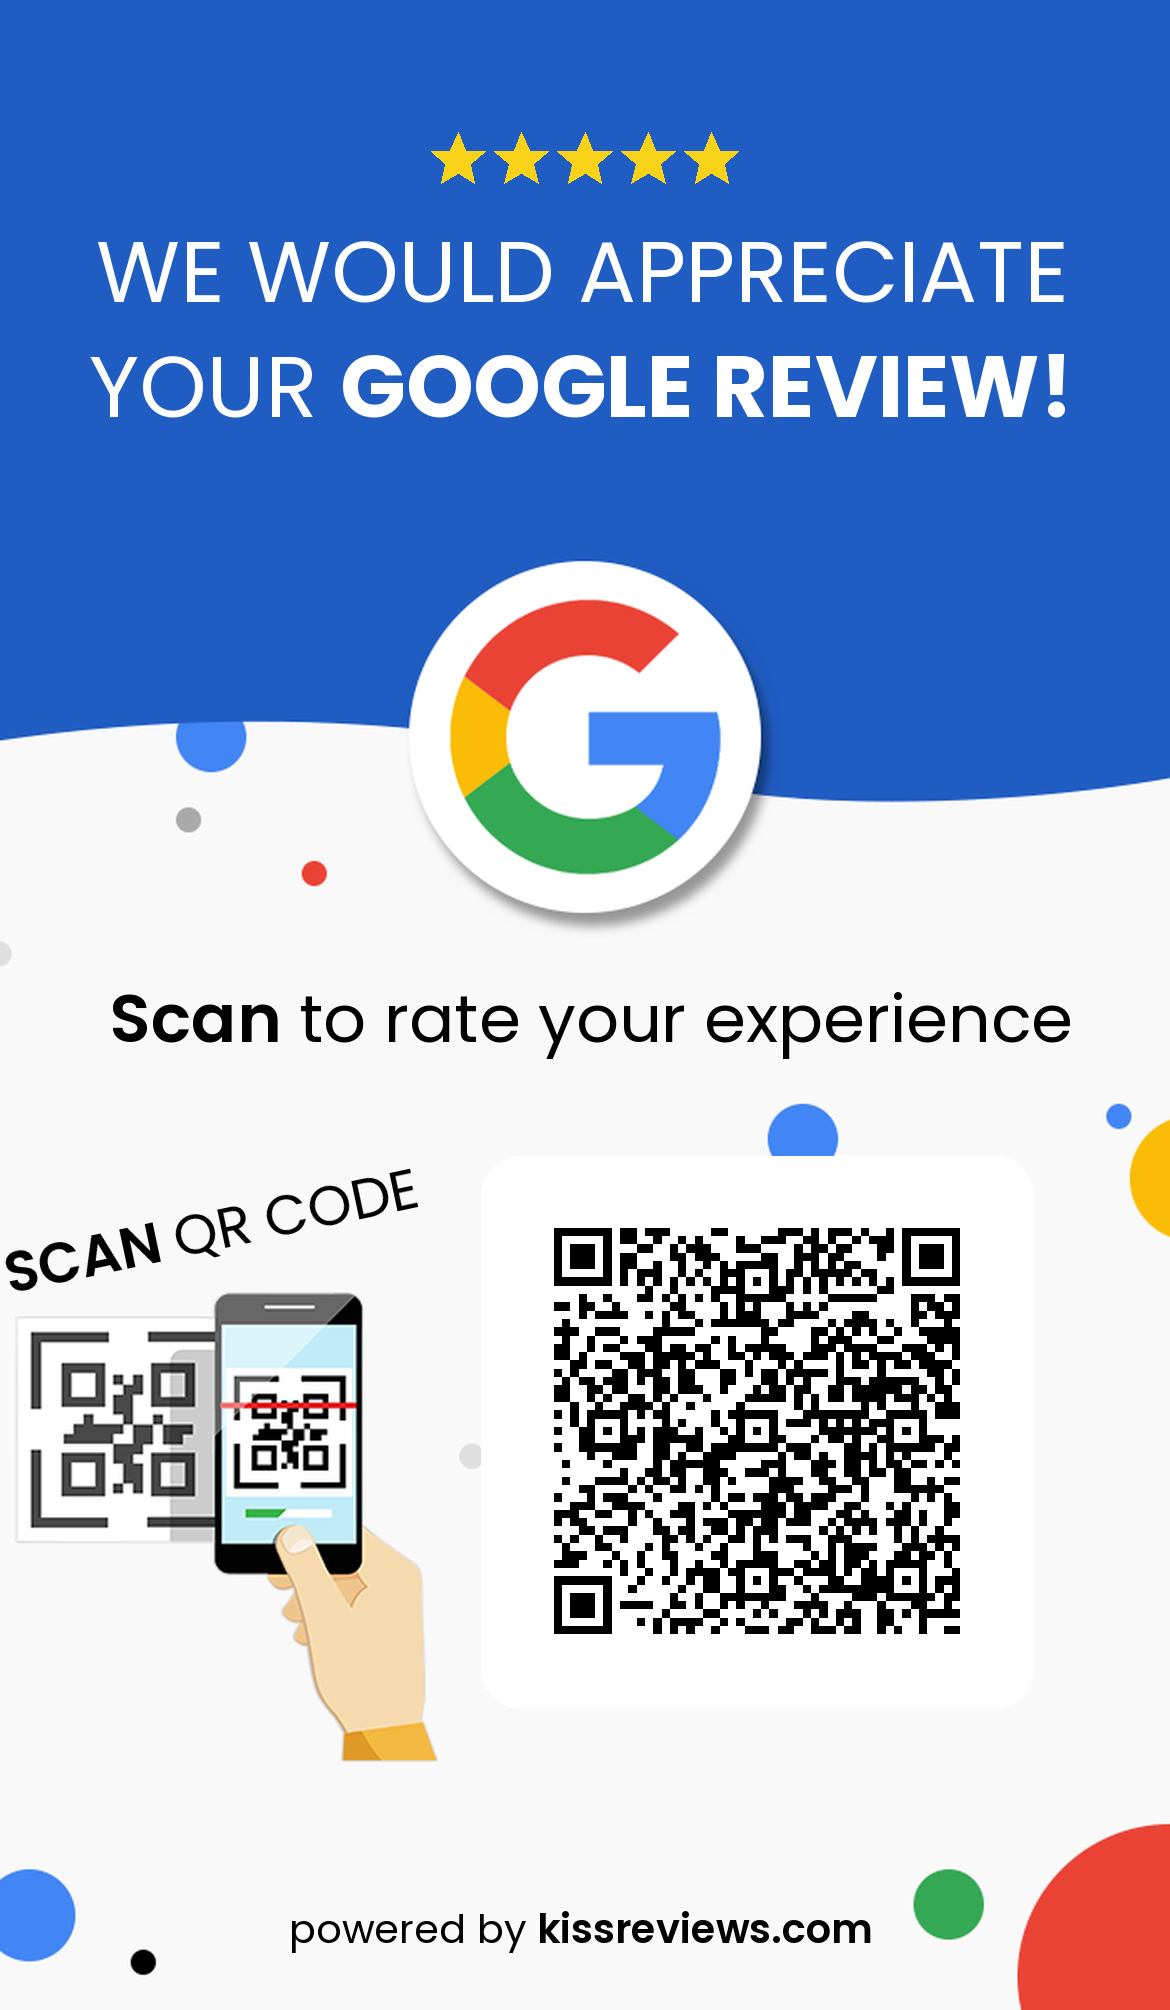
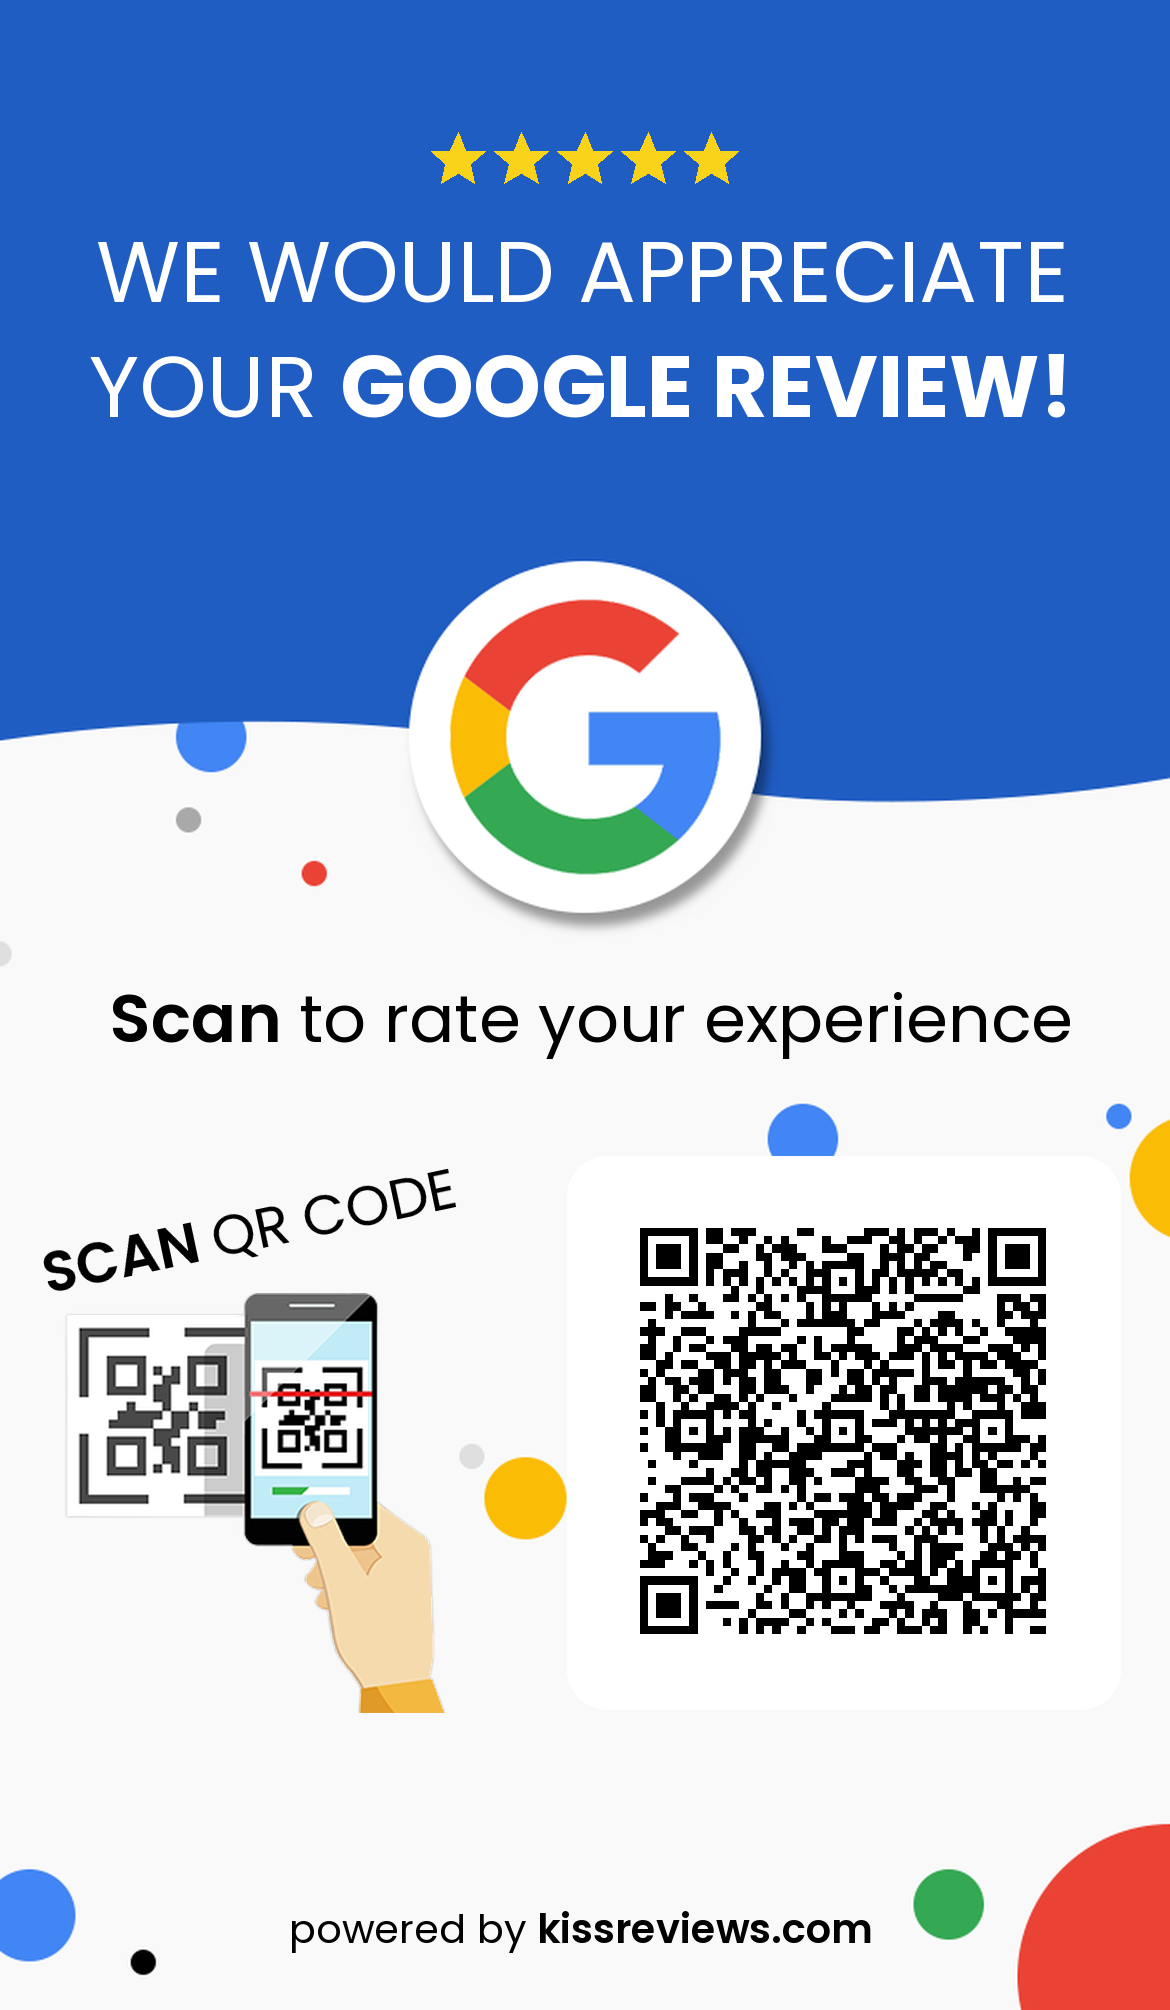
Decal: move phone illustration and QR card off the sticker edges
Claude-Session: https://claude.ai/code/session_01HuSLgrkbYU9ZpgEq226m8J

Changed region(s): [[0.4, 0.5861, 0.8923, 0.8328], [0.0, 0.5861, 0.4, 0.8945]]

diff --git a/tools/decal/build_decal.py b/tools/decal/build_decal.py
@@ -13,13 +13,28 @@ CROP_X0, CROP_X1 = 51, 749          # source px (800 wide) kept -> 698 px, stick
 SRC_H = 1200
 SX = W / (CROP_X1 - CROP_X0)        # 1.676
 SY = H / SRC_H                      # 1.675
-TEXT_LAYERS_HIDE = {'Group 1', 'Layer 3', 'Rounded Rectangle 2', 'capture-qr-code-mobile-phone'}
+TEXT_LAYERS_HIDE = {'Group 1', 'Layer 3', 'Rounded Rectangle 2', 'capture-qr-code-mobile-phone', 'capture-qr-code-mobile-phone copy'}
+ILLUSTRATION = 'capture-qr-code-mobile-phone copy'
+ILLU_X, ILLU_SCALE = 62, 0.9        # target px: left edge and scale of the phone/hand art
+CARD_RIGHT_MARGIN = 50              # target px between QR card and sticker edge
+CARD_SIZE = 553                     # target px, QR card square
 
 def tx(x): return (x - CROP_X0) * SX
 def ty(y): return y * SY
 
 def font(weight, px):
     return ImageFont.truetype(FONT.format(weight), int(round(px)))
+
+def composite_illustration():
+    psd = PSDImage.open(PSD)
+    for l in psd.descendants():
+        l.visible = (l.name == ILLUSTRATION)
+    layer = next(l for l in psd.descendants() if l.name == ILLUSTRATION)
+    img = psd.composite().convert('RGBA')
+    x0, y0, x1, y1 = layer.bbox
+    art = img.crop((max(0, x0), max(0, y0), min(img.width, x1), min(img.height, y1)))
+    w, h = int(art.width * SX * ILLU_SCALE), int(art.height * SY * ILLU_SCALE)
+    return art.resize((w, h), Image.LANCZOS), (x0, y0)
 
 def composite_art():
     psd = PSDImage.open(PSD)
@@ -60,7 +75,9 @@ def stars(base, cx, cy, span, color=(249, 211, 26, 255)):
 
 def qr_card(base, review_url):
     # white rounded card, centred right of the phone illustration (source coords 338..668, 690..1020)
-    x0, y0, x1, y1 = tx(338), ty(690), tx(668), ty(1020)
+    x1 = W - CARD_RIGHT_MARGIN
+    x0 = x1 - CARD_SIZE
+    y0, y1 = ty(690), ty(690) + CARD_SIZE
     card = Image.new('RGBA', base.size, (0, 0, 0, 0))
     ImageDraw.Draw(card).rounded_rectangle([x0, y0, x1, y1], radius=40, fill=(255, 255, 255, 255))
     base.alpha_composite(card)
@@ -79,6 +96,8 @@ def qr_card(base, review_url):
 
 def main(review_url, out):
     base = composite_art()
+    art, _ = composite_illustration()
+    base.alpha_composite(art, (ILLU_X, int(ty(772))))
     d = ImageDraw.Draw(base)
     # headline: source 70..726 wide, 60pt -> scaled
     hp = 86
@@ -87,7 +106,7 @@ def main(review_url, out):
     stars(base, tx(400), ty(96), 317)
     ep = 67
     paste_centered(base, rich_text(d, [('Scan', 600), (' to rate your experience', 400)], tx(404), ty(620), ep, (1, 1, 1, 255)), tx(404), ty(620))
-    paste_centered(base, rich_text(d, [('SCAN', 600), (' QR CODE', 400)], 0, 0, 56, (1, 1, 1, 255), rotate=12), 215, ty(745))
+    paste_centered(base, rich_text(d, [('SCAN', 600), (' QR CODE', 400)], 0, 0, 56, (1, 1, 1, 255), rotate=12), ILLU_X + int(0.5 * 254 * SX * ILLU_SCALE), ty(745))
     pw = 40
     paste_centered(base, rich_text(d, [('powered by ', 400), ('kissreviews.com', 600)], tx(398), ty(1159), pw, (1, 1, 1, 255)), tx(398), ty(1159))
     qr_card(base, review_url)
